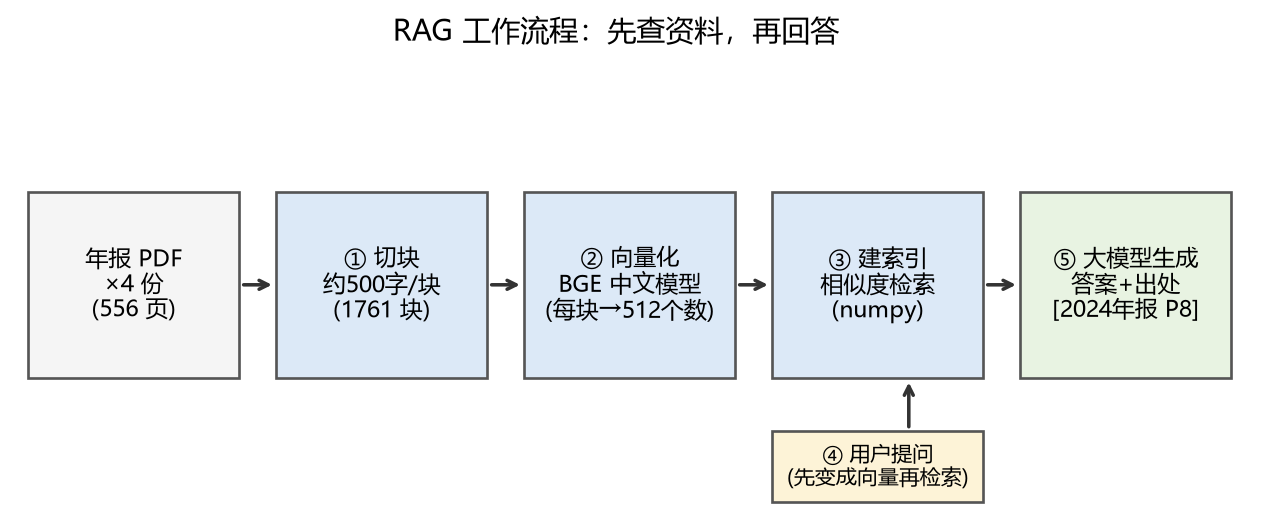
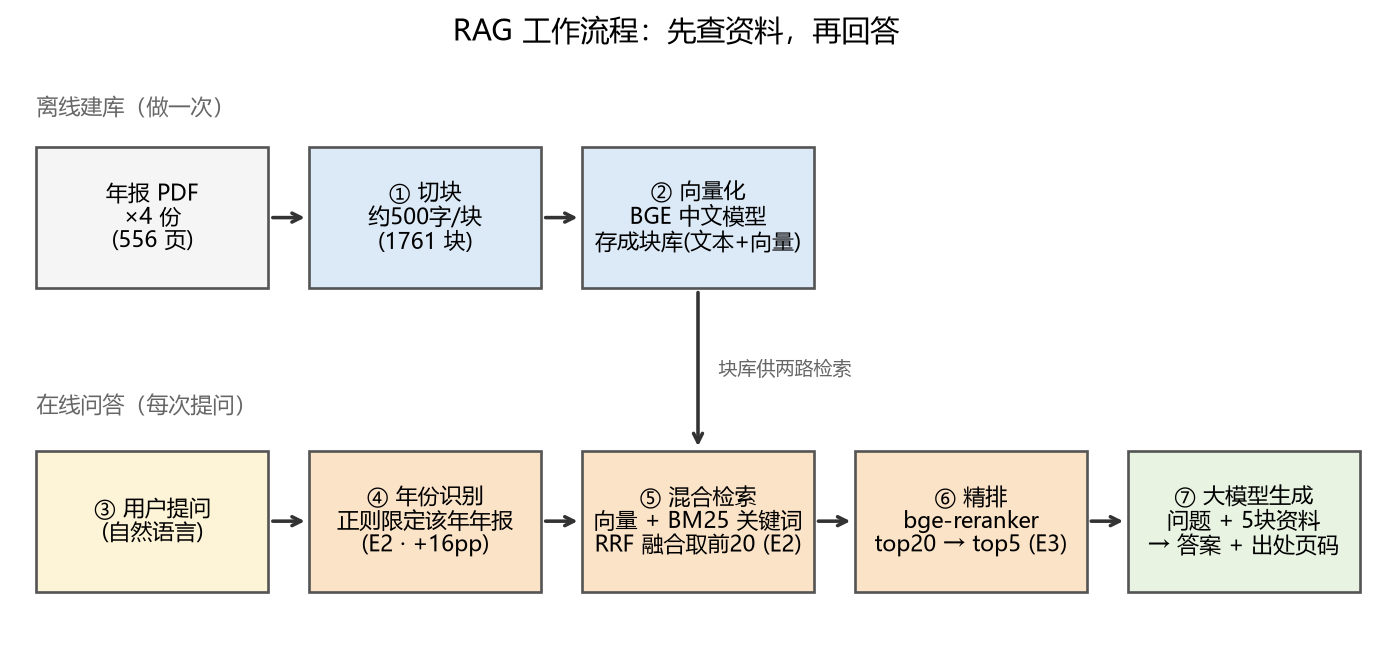
docs: README重排版(居中标题区+徽章+目录+图表居中+免责折叠); 架构图改为离线/在线双流水线并标注E2/E3增强

diff --git a/scripts/make_figures.py b/scripts/make_figures.py
@@ -20,33 +20,45 @@ RESULTS = Path("results")
 
 
 def fig_pipeline() -> None:
-    """RAG 五步流程示意图。"""
-    fig, ax = plt.subplots(figsize=(10, 3.6))
+    """RAG 流程示意图：离线建库 + 在线问答两条流水线（含 E2/E3 增强）。"""
+    fig, ax = plt.subplots(figsize=(11, 4.4))
     ax.axis("off")
-    boxes = [
-        (0.01, "年报 PDF\n×4 份\n(556 页)", "#f5f5f5"),
-        (0.21, "① 切块\n约500字/块\n(1761 块)", "#dce9f7"),
-        (0.41, "② 向量化\nBGE 中文模型\n(每块→512个数)", "#dce9f7"),
-        (0.61, "③ 建索引\n相似度检索\n(numpy)", "#dce9f7"),
-        (0.81, "⑤ 大模型生成\n答案+出处\n[2024年报 P8]", "#e8f3e2"),
-    ]
-    for x, label, color in boxes:
-        ax.add_patch(plt.Rectangle((x, 0.30), 0.17, 0.42, fc=color,
-                                   ec="#555", lw=1.2, zorder=2))
-        ax.text(x + 0.085, 0.51, label, ha="center", va="center",
-                fontsize=10.5, zorder=3)
-    for x0 in (0.18, 0.38, 0.58, 0.78):
-        ax.annotate("", xy=(x0 + 0.03, 0.51), xytext=(x0, 0.51),
-                    arrowprops=dict(arrowstyle="->", lw=1.6, color="#333"))
+    ax.set_xlim(0, 1)
+    ax.set_ylim(0, 1)
 
-    # 用户问题从下方进入检索步骤
-    ax.add_patch(plt.Rectangle((0.61, 0.02), 0.17, 0.16, fc="#fdf3d7",
-                               ec="#555", lw=1.2, zorder=2))
-    ax.text(0.695, 0.10, "④ 用户提问\n(先变成向量再检索)", ha="center",
-            va="center", fontsize=9.5, zorder=3)
-    ax.annotate("", xy=(0.72, 0.30), xytext=(0.72, 0.18),
+    # (x, y0, 标签, 颜色)；上排离线 y=0.64，下排在线 y=0.08
+    boxes = [
+        (0.015, 0.64, "年报 PDF\n×4 份\n(556 页)", "#f5f5f5"),
+        (0.215, 0.64, "① 切块\n约500字/块\n(1761 块)", "#dce9f7"),
+        (0.415, 0.64, "② 向量化\nBGE 中文模型\n存成块库(文本+向量)", "#dce9f7"),
+        (0.015, 0.08, "③ 用户提问\n(自然语言)", "#fdf3d7"),
+        (0.215, 0.08, "④ 年份识别\n正则限定该年年报\n(E2 · +16pp)", "#fbe3c8"),
+        (0.415, 0.08, "⑤ 混合检索\n向量 + BM25 关键词\nRRF 融合取前20 (E2)", "#fbe3c8"),
+        (0.615, 0.08, "⑥ 精排\nbge-reranker\ntop20 → top5 (E3)", "#fbe3c8"),
+        (0.815, 0.08, "⑦ 大模型生成\n问题 + 5块资料\n→ 答案 + 出处页码", "#e8f3e2"),
+    ]
+    for x, y0, label, color in boxes:
+        ax.add_patch(plt.Rectangle((x, y0), 0.17, 0.26, fc=color,
+                                   ec="#555", lw=1.2, zorder=2))
+        ax.text(x + 0.085, y0 + 0.13, label, ha="center", va="center",
+                fontsize=9.8, zorder=3)
+    # 上排内部箭头 + 下排内部箭头
+    for x0 in (0.185, 0.385):
+        ax.annotate("", xy=(x0 + 0.03, 0.77), xytext=(x0, 0.77),
+                    arrowprops=dict(arrowstyle="->", lw=1.6, color="#333"))
+    for x0 in (0.185, 0.385, 0.585, 0.785):
+        ax.annotate("", xy=(x0 + 0.03, 0.21), xytext=(x0, 0.21),
+                    arrowprops=dict(arrowstyle="->", lw=1.6, color="#333"))
+    # 块库 → 混合检索（两条流水线的交汇）
+    ax.annotate("", xy=(0.50, 0.34), xytext=(0.50, 0.64),
                 arrowprops=dict(arrowstyle="->", lw=1.6, color="#333"))
-    fig.suptitle("RAG 工作流程：先查资料，再回答", fontsize=13, y=0.97)
+    ax.text(0.515, 0.49, "块库供两路检索", ha="left", va="center",
+            fontsize=8.5, color="#666", zorder=3)
+    ax.text(0.015, 0.95, "离线建库（做一次）", ha="left", va="bottom",
+            fontsize=10, color="#666")
+    ax.text(0.015, 0.40, "在线问答（每次提问）", ha="left", va="bottom",
+            fontsize=10, color="#666")
+    fig.suptitle("RAG 工作流程：先查资料，再回答", fontsize=13, y=0.99)
     fig.savefig(FIG_DIR / "fig_pipeline.png", dpi=160, bbox_inches="tight")
     plt.close(fig)
 

diff --git a/README.md b/README.md
@@ -1,14 +1,47 @@
+<div align="center">
+
 # 茅台年报问答系统 · 可评测的财报 RAG
 
-> 把贵州茅台 2022–2025 年 4 份年报（556 页）做成一个"能提问的资料库"：
-> 自然语言提问，答案必附**原文页码出处**，查不到就明说。
-> 全流程可本地运行，效果由 50 题黄金评测集量化验证。
+**把贵州茅台 2022–2025 年 4 份年报（556 页）做成一个"能提问的资料库"**
 
-![界面](docs/screenshots/local_ui.png)
+自然语言提问，答案必附 **原文页码出处**，查不到就明说。
+全流程可本地运行，效果由 **50 题黄金评测集** 量化验证。
 
-## 效果一览（50 题黄金评测集，全部数字可复现）
+[![License: MIT](https://img.shields.io/badge/License-MIT-blue.svg)](LICENSE)
+![Python](https://img.shields.io/badge/Python-3.12-3776AB?logo=python&logoColor=white)
+![Runs](https://img.shields.io/badge/Runs-100%25_Local-success)
+![Embedding](https://img.shields.io/badge/Embedding-BGE--small--zh--v1.5-orange)
+![LLM](https://img.shields.io/badge/LLM-Qwen3--4B_%7C_DeepSeek-orange)
+![UI](https://img.shields.io/badge/UI-Streamlit-FF4B4B?logo=streamlit&logoColor=white)
 
-**检索层**：出处页命中率 hit@5 从 30% 提升到 62%，每一步都有对照实验：
+<img src="docs/screenshots/local_ui.png" width="720" alt="问答界面"/>
+
+*对话问答 · 出处档案卡 · 双年报对比*
+
+</div>
+
+---
+
+## 目录
+
+- [效果一览](#效果一览)
+- [系统架构](#系统架构)
+- [核心特性](#核心特性)
+- [本地 vs 云端](#本地-vs-云端)
+- [快速开始](#快速开始)
+- [仓库结构](#仓库结构)
+- [技术报告](#技术报告)
+- [边界与免责声明](#边界与免责声明)
+
+---
+
+## 效果一览
+
+**50 题黄金评测集，全部数字可复现**（评测脚本见 `scripts/`，原始结果见 `results/`）。
+
+### 检索层：出处页命中率 hit@5 从 30% 提升到 62%
+
+每一步都有对照实验：
 
 | 实验 | 改动 | hit@5 | 增益 |
 |---|---|---|---|
@@ -17,7 +50,14 @@
 | E2 | 混合检索（BM25+向量 RRF）+ 年份识别过滤 | 56% | 年份正则 +16pp，全项目性价比最高 |
 | E3 | bge-reranker 精排（top20→top5） | **62%** | +6pp，代价是每次查询约 2 秒 CPU 推理 |
 
-**答案层**（同一检索管线，只换生成模型）：
+<div align="center">
+<img src="report/figures/fig_experiments.png" width="720" alt="检索策略对比"/>
+
+*七种检索策略对照：更细的切块反而更差；两个便宜的优化带来翻倍效果*
+
+</div>
+
+### 答案层：同一检索管线，只换生成模型
 
 | 模型 | 完整答案率 | 关键数字命中率 | 误拒答率 | 无答案题拒答正确率 |
 |---|---|---|---|---|
@@ -25,14 +65,25 @@
 | 云端 DeepSeek-Flash（实测花费 0.53 元） | 40.0% | 58.5% | 33.3% | 100% |
 | 云端 · 只看实际回答的题 | **60.0%** | **85.1%** | — | — |
 
-![E4 生成模型对比](report/figures/fig_e4_compare.png)
+<div align="center">
+<img src="report/figures/fig_e4_compare.png" width="720" alt="E4 生成模型对比"/>
+</div>
 
-**最有趣的发现——质量与覆盖的权衡**：
-小模型"敢答但常错"（数字单位都能抄错），大模型"答得准但惜答"（误拒答率翻倍，
-放弃了本可答对的题）。换更强的模型买到的是**质量**，不是**覆盖**。
-安全底线两边都没破：年报里根本没有答案的 5 道题，系统**一次都没有编造**。
+> **最有趣的发现——质量与覆盖的权衡**
+> 小模型"敢答但常错"（数字单位都能抄错），大模型"答得准但惜答"（误拒答率翻倍，
+> 放弃了本可答对的题）。换更强的模型买到的是**质量**，不是**覆盖**。
+> 安全底线两边都没破：年报里根本没有答案的 5 道题，系统**一次都没有编造**。
 
-**其他特性**：
+## 系统架构
+
+<div align="center">
+<img src="report/figures/fig_pipeline.png" width="720" alt="RAG 工作流程"/>
+
+*先查资料，再回答：离线建库做一次，在线问答每次提问。橙色三步（年份识别 / 混合检索 / 精排）即 E2/E3 的核心增强，对应上表 30% → 62% 的提升。*
+
+</div>
+
+## 核心特性
 
 - 📄 **页码直达**：问题里写"P6"或"第6页"会跳过语义检索，直接取该页原文回答
 - 💬 **追问推荐**：每次回答后自动生成 3 个可继续问的问题，点击即问
@@ -40,7 +91,9 @@
 - 🧪 **确定性评测**：检索是否命中出处页由程序判定，不依赖大模型打分，零成本可复现
 - 🔒 **全本地运行**：嵌入/检索/生成均可离线（云端对比为可选项）
 
-## 本地 vs 云端（同一问题，同一出处，只差模型）
+## 本地 vs 云端
+
+同一问题，同一出处，只差模型：
 
 | 本地 Qwen3-4B | 云端 DeepSeek-Flash |
 |---|---|
@@ -99,12 +152,17 @@ docs/         界面截图
 tectonic -o report/_build report/report.tex
 ```
 
-## 免责声明
+## 边界与免责声明
+
+<details>
+<summary>点击展开</summary>
 
 本项目数据来自[巨潮资讯网](http://www.cninfo.com.cn)依法公开披露的上市公司
 年度报告，**仅用于学习和技术研究，不构成任何投资建议**。本项目与贵州茅台酒
 股份有限公司无任何关联；相关商标归其权利人所有。请勿将本仓库中的语料处理
 方式用于未经授权的商业场景。
+
+</details>
 
 ## License
 
